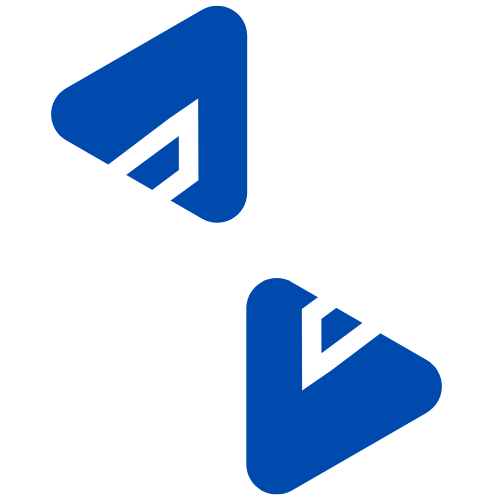
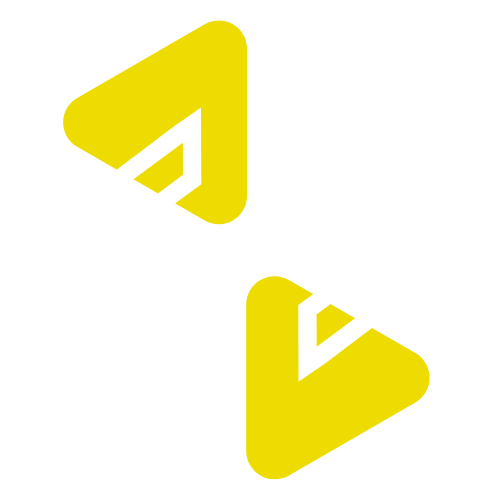
updated color pallete

Changed region(s): [[0.09, 0.0, 0.51, 0.45], [0.48, 0.54, 0.9, 0.99]]

diff --git a/src/components/navbarTeam/NavbarTeam.css b/src/components/navbarTeam/NavbarTeam.css
@@ -66,15 +66,14 @@
     padding: 10px 20px;
     border-radius: 4px;
     border: none;
-    color: white;
+    color: black;
     cursor: pointer;
     min-width: 110px;
-    background-color: #004AAD;
+    background-color: var(--primary-c);
   }
 
   .codeutsava__navbarTeam-brochure-button img{
     width: 16px;
-    filter: invert(100%);
   }
   .codeutsava__navbarTeam-brochure-button a{
     font-size: 12px;
@@ -92,7 +91,7 @@
     color: white;
     cursor: pointer;
     width: 50%;
-    background-color: #004AAD;
+    background-color: var(--primary-c);
   }
 
   .codeutsava__navbarTeam-brochure-button:hover{
@@ -153,7 +152,7 @@
     margin-top: 4px;
     display: block;
     content: "";
-    border-bottom: 2px solid #38b6ff;
+    border-bottom: 2px solid var(--secondary-c);
     transform: scaleX(0);
     transition: transform 0.5s ease-in-out;
   }

diff --git a/src/components/navbar/Navbar.css b/src/components/navbar/Navbar.css
@@ -66,15 +66,14 @@
     padding: 10px 20px;
     border-radius: 4px;
     border: none;
-    color: white;
+    color: black;
     cursor: pointer;
     min-width: 110px;
-    background-color: #004AAD;
+    background-color: var(--primary-c);
   }
 
   .codeutsava__navbar-brochure-button img{
     width: 16px;
-    filter: invert(100%);
   }
   .codeutsava__navbar-brochure-button a{
     font-size: 12px;
@@ -92,7 +91,7 @@
     color: white;
     cursor: pointer;
     width: 50%;
-    background-color: #004AAD;
+    background-color: var(--primary-c);
   }
 
   .codeutsava__navbar-brochure-button:hover{
@@ -153,7 +152,7 @@
     margin-top: 4px;
     display: block;
     content: "";
-    border-bottom: 2px solid #38b6ff;
+    border-bottom: 2px solid var(--secondary-c);
     transform: scaleX(0);
     transition: transform 0.5s ease-in-out;
   }

diff --git a/src/components/teamCard/TeamCard.css b/src/components/teamCard/TeamCard.css
@@ -23,7 +23,7 @@
   width: 100%;
   height: 0;
   border-radius: 50%;
-  background-color: #004AAD;
+  background-color: var(--primary-c);
   position: absolute;
   bottom: 135%;
   right: 0;
@@ -42,7 +42,7 @@
   width: 100%;
   height: 100%;
   border-radius: 50%;
-  background-color: #004AAD;
+  background-color: var(--primary-c);
   position: absolute;
   top: 0;
   left: 0;
@@ -73,7 +73,7 @@
 .codeutsava__team-card .title {
   display: block;
   font-size: 17px;
-  color: #004aad;
+  color: var(--primary-c);
   text-transform: capitalize;
   margin-top: 4px;
 }
@@ -88,7 +88,7 @@
   width: 100%;
   padding: 0;
   margin: 0;
-  background-color: #004AAD;
+  background-color: var(--primary-c);
   position: absolute;
   bottom: -100px;
   left: 0;

diff --git a/src/sections/section2/Section2.js b/src/sections/section2/Section2.js
@@ -22,7 +22,7 @@ const Section2 = () => {
             <WordGlobe />
           </div>
           <div className="codeutsava__section2-content">
-            <span style={{ color: "#38b6ff" }}>CodeUtsava 6.0</span> is an event
+            <span style={{ color: "var(--secondary-c)" }}>CodeUtsava 7.0</span> is an event
             being organized by Turing Club of Programmers, the Official Coding
             Club of NIT Raipur. It aims to foster and nurture invigorating
             coding culture among the students of the Institute through its

diff --git a/src/sections/section1/Section1.css b/src/sections/section1/Section1.css
@@ -34,7 +34,7 @@
   font-size: 36px;
   line-height: 82px;
   letter-spacing: 1px;
-  color: #38b6ff;
+  color: var(--secondary-c);
   text-transform: uppercase;
 }
 
@@ -148,7 +148,7 @@
 }
 
 .codeutsava__section1-side-links a svg:hover{
-  fill: #38b6ff;
+  fill: var(--secondary-c);
   transition: all 0.2s ease-in-out;
 }
 
@@ -181,7 +181,7 @@
 }
 
 .codeutsava__section1-scrollDown a:hover{
-  color: #38b6ff;
+  color: var(--secondary-c);
   transition: all 0.2s ease-in-out;
 }
 

diff --git a/src/index.css b/src/index.css
@@ -2,8 +2,8 @@
 :root {
   --font-family: "Poppins", sans-serif;
   --color-bg: #000000;
-  --primary-c: #004AAD;
-  --secondary-c: #38b6ff;
+  --primary-c: #eedb00;
+  --secondary-c: #fbfb00;
 }
 
 * {
@@ -27,6 +27,6 @@
 }
 
 ::-webkit-scrollbar-thumb{
-  background-color: #004AAD;
+  background-color: var(--primary-c);
   border-radius: 10px;
 }

diff --git a/src/sections/section10/Section10.css b/src/sections/section10/Section10.css
@@ -41,9 +41,9 @@
 
 .codeutsava__section10-button:hover {
   transition: all 0.2s ease-in-out;
-  color: white;
-  background-color: #38b6ff;
-  border: 1px solid #38b6ff;
+  color: black;
+  background-color: var(--secondary-c);
+  border: 1px solid var(--secondary-c);
 }
 
 @media screen and (max-width: 650px) {

diff --git a/src/sections/section8/Section8.css b/src/sections/section8/Section8.css
@@ -49,9 +49,9 @@
 
 .codeutsava__section8-button:hover {
   transition: all 0.2s ease-in-out;
-  color: white;
-  background-color: #38b6ff;
-  border: 1px solid #38b6ff;
+  color: black;
+  background-color: var(--secondary-c);
+  border: 1px solid var(--secondary-c);
 }
 
 @media screen and (max-width: 650px) {

diff --git a/src/components/footer/Footer.js b/src/components/footer/Footer.js
@@ -142,7 +142,7 @@ const Footer = () => {
           <a href="#home">
             Back to Top
             <svg
-              fill="#004AAD"
+              fill="#eedb00"
               height="20"
               width="20"
               xmlns="http://www.w3.org/2000/svg"

diff --git a/src/sections/section1/Section1.js b/src/sections/section1/Section1.js
@@ -147,7 +147,7 @@ const Section1 = () => {
       >
         <a href="#aboutus">Scroll Down</a>
         <svg
-          fill="#38b6ff"
+          fill="var(--secondary-c)"
           width="16"
           height="16"
           xmlns="http://www.w3.org/2000/svg"

diff --git a/src/sections/section2/Section2.css b/src/sections/section2/Section2.css
@@ -61,7 +61,7 @@
 .tagcloud--item{
     font-family: "Poppins";
     font-weight: 500;
-    color: #38b6ff;
+    color: var(--secondary-c);
 }
 
 .tagcloud--item:hover{

diff --git a/src/sections/section5/Section5.css b/src/sections/section5/Section5.css
@@ -86,6 +86,7 @@
   display: flex;
   justify-content: center;
   align-items: center;
+  color: black;
 }
 
 .codeutsava__section5-format-card-title {
